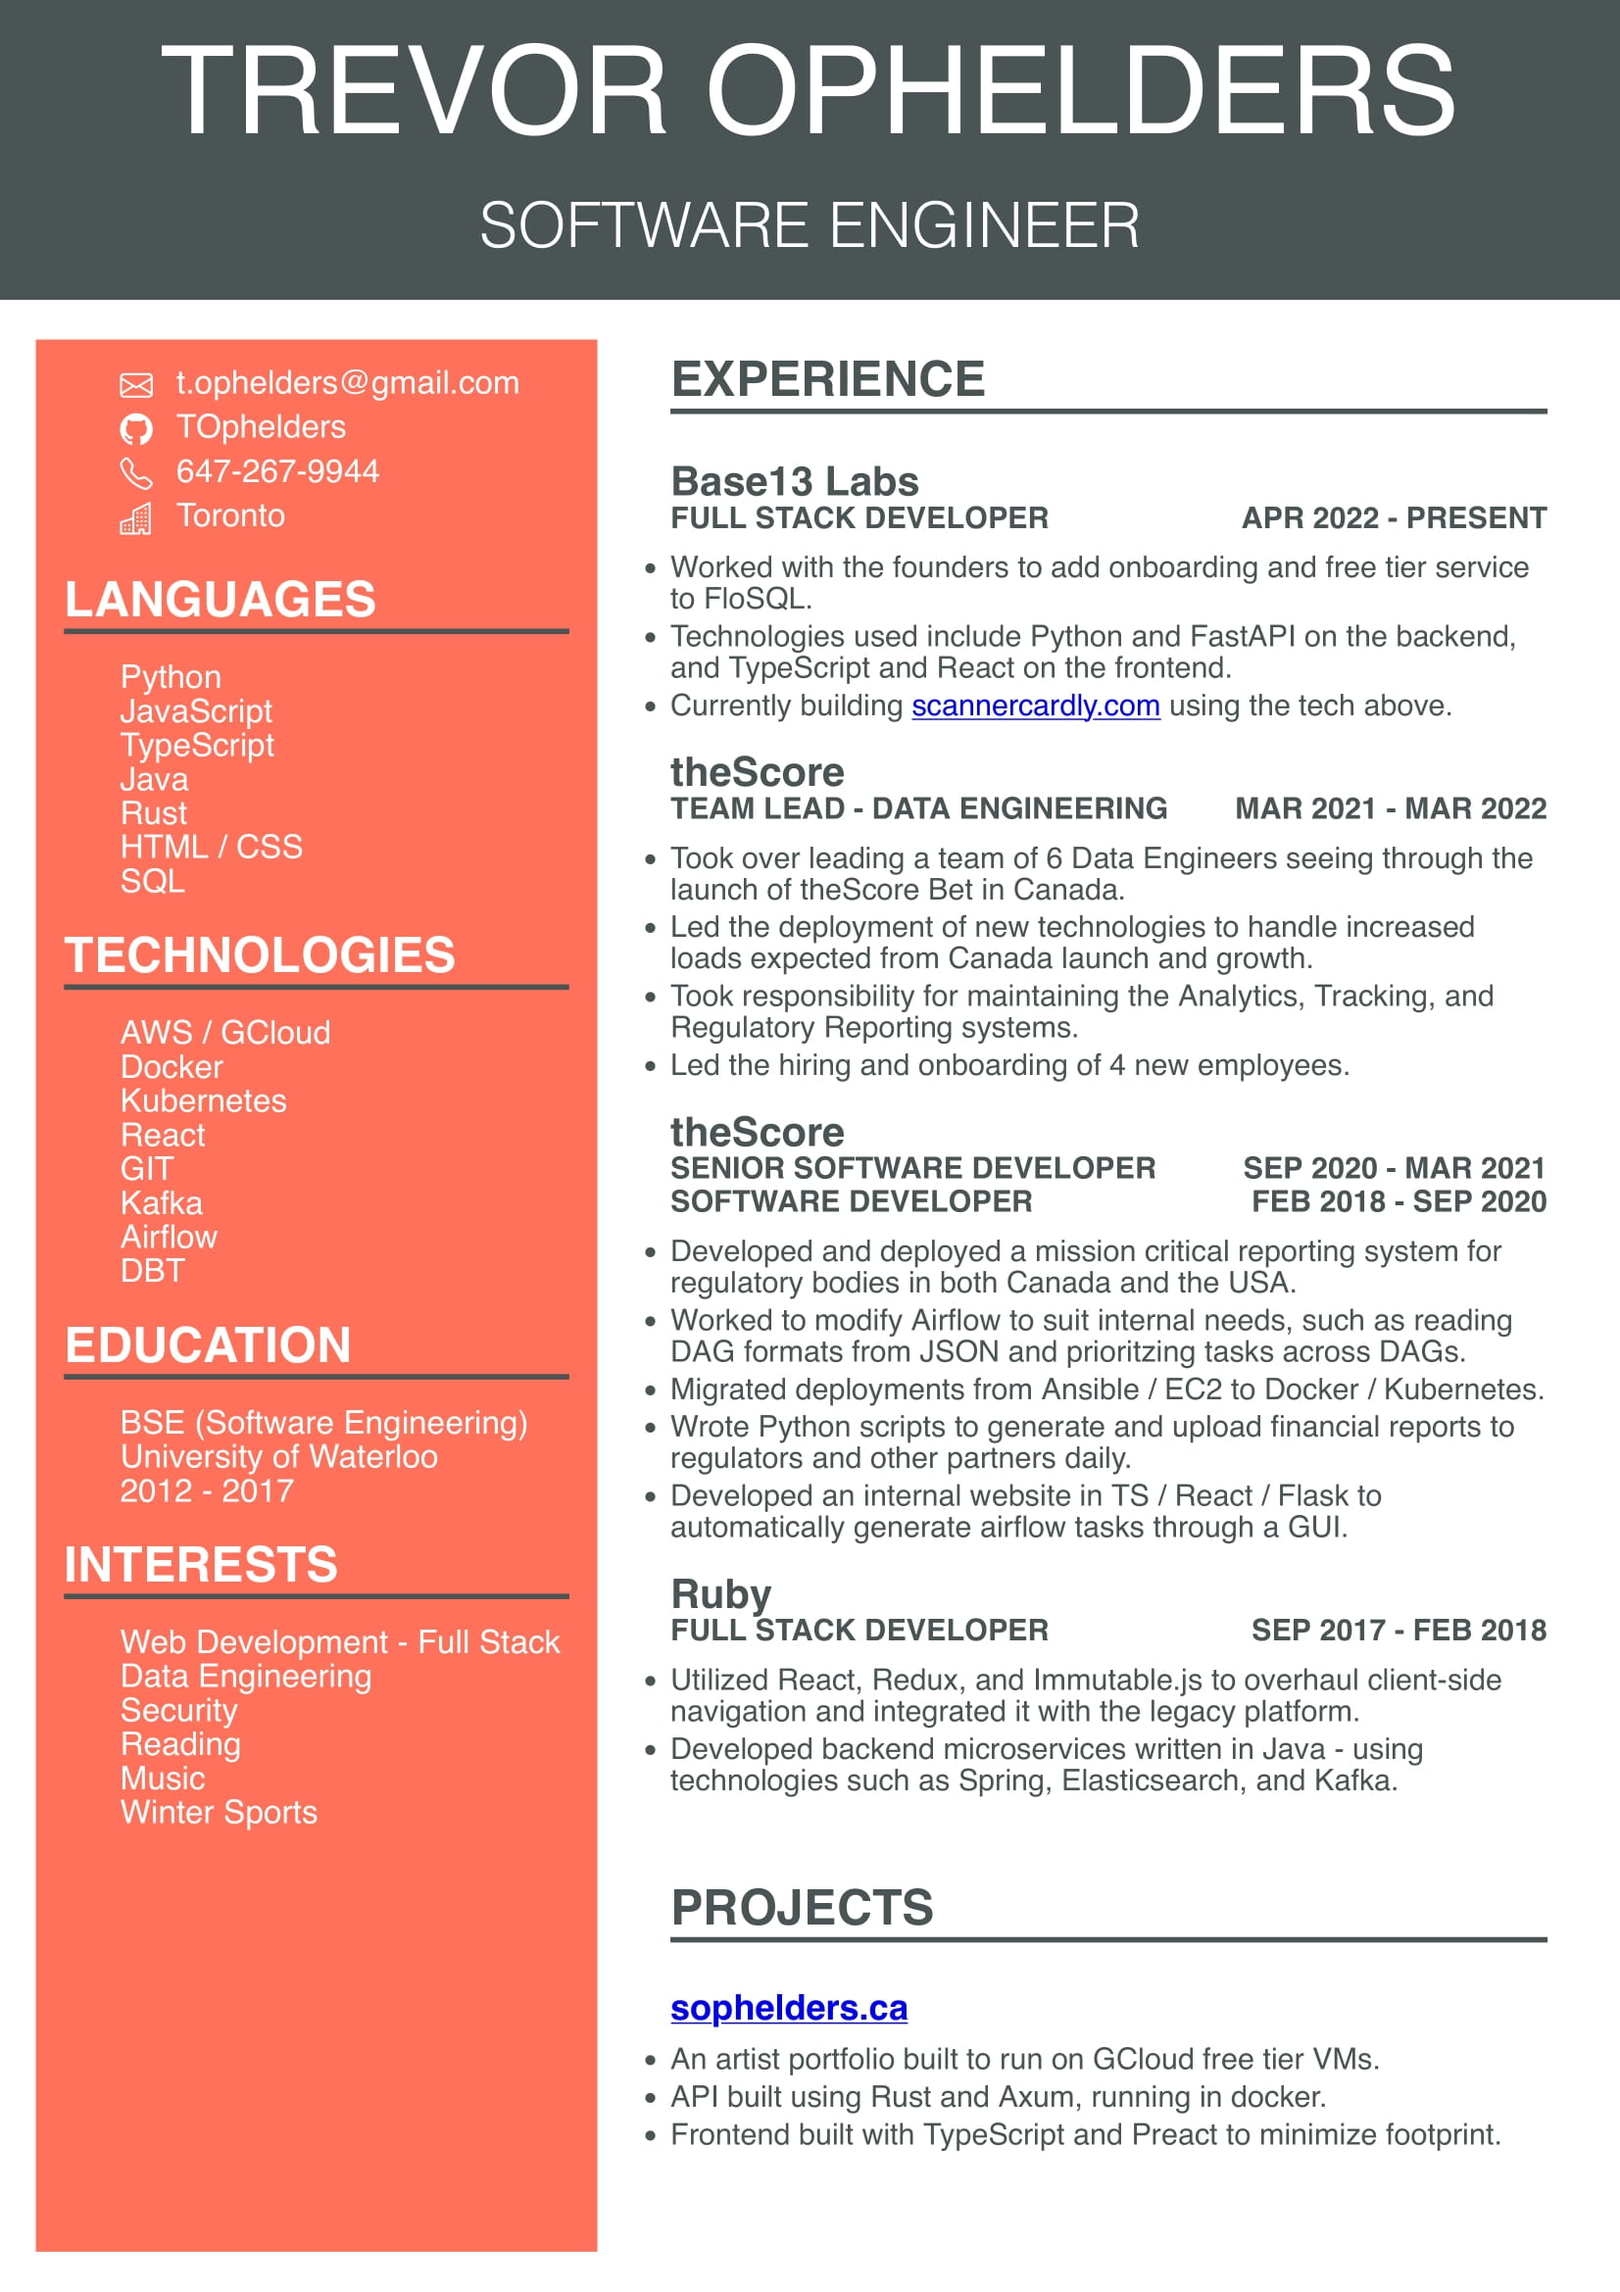
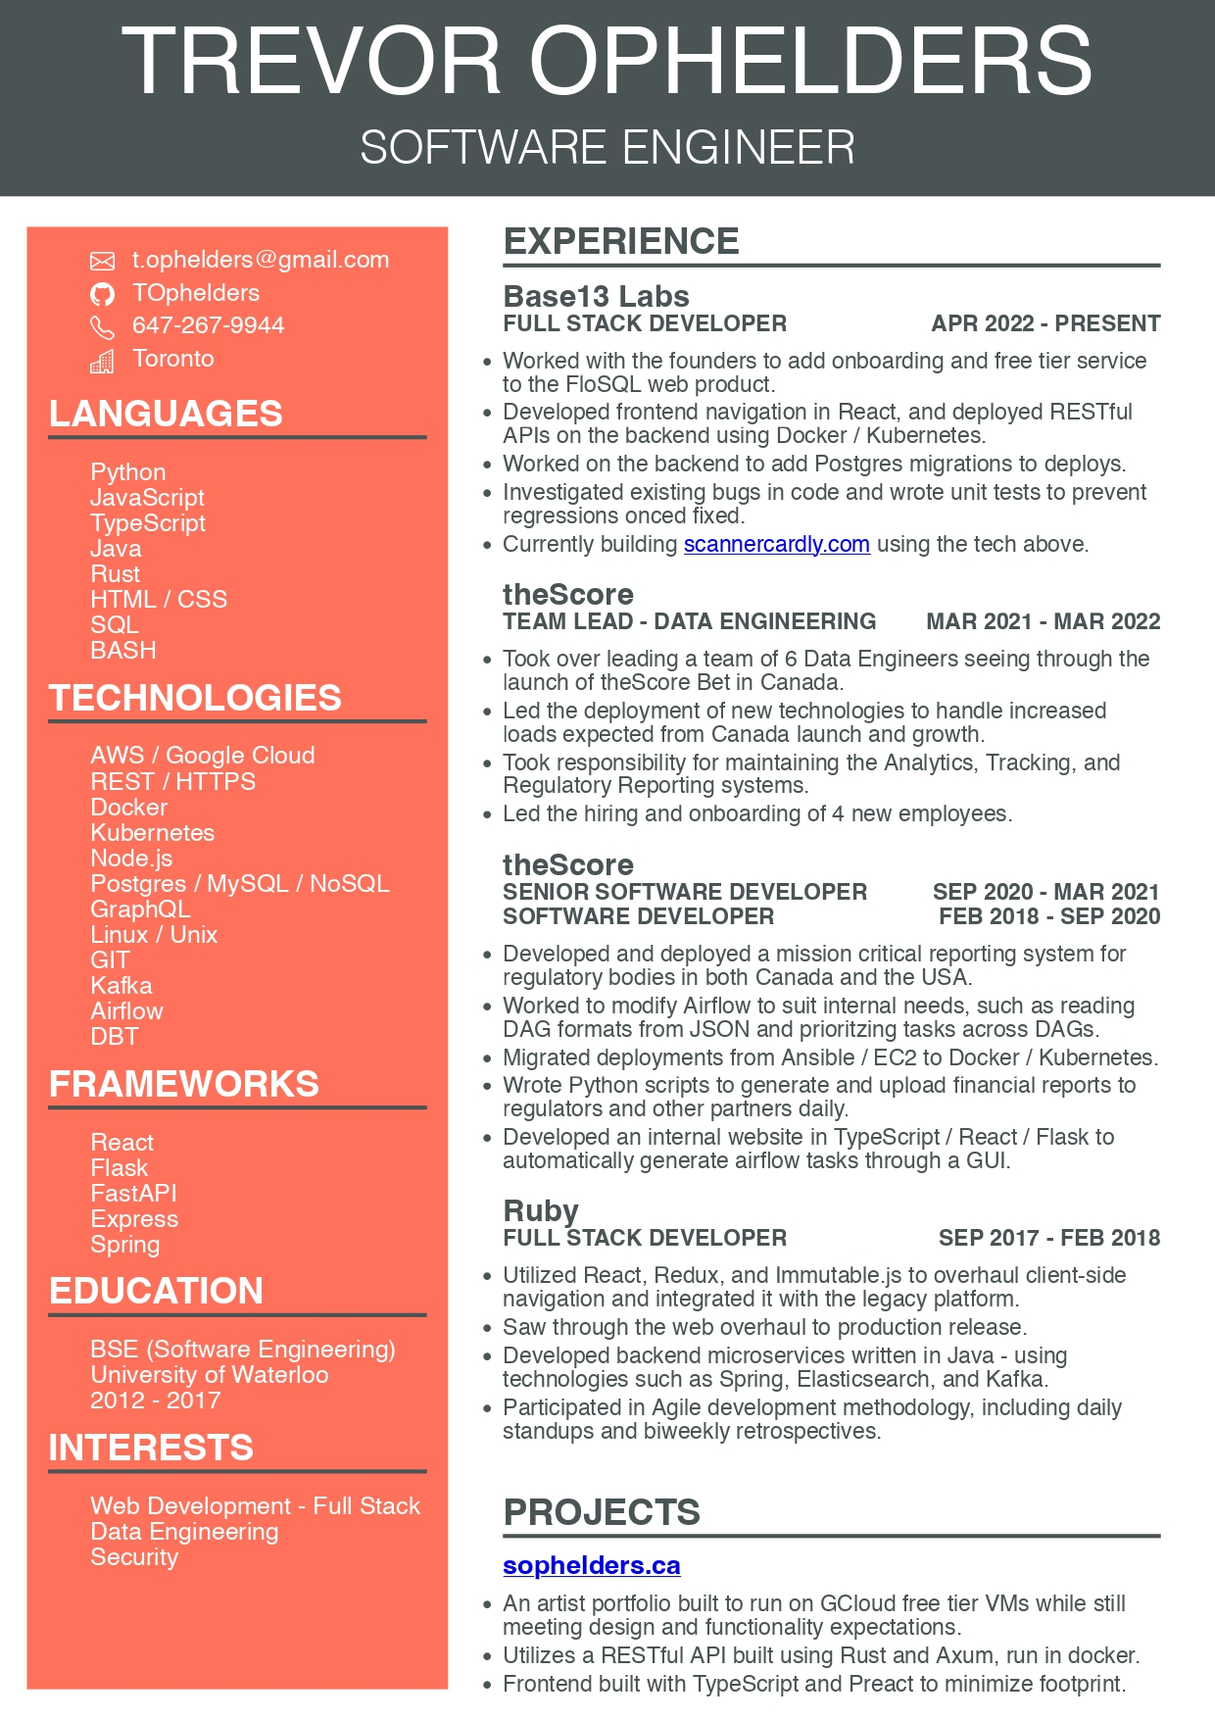
minor modifications

Changed region(s): [[0.0, 0.0, 1.0, 0.9846]]

diff --git a/resume.html b/resume.html
@@ -67,7 +67,7 @@
       }
       .section-header {
         width: 90%;
-        margin: 6% 0% 0% 5%;
+        margin: 4% 0% 0% 5%;
         border-bottom: 3px solid #4C5454;
         font-size: 18pt;
       }
@@ -106,7 +106,7 @@
       }
       .history-content {
         width: 90%;
-        margin: 5% 0% 0% 5%;
+        margin: 2% 0% 0% 5%;
         font-size: 11pt;
         font-weight: 500;
       }
@@ -170,19 +170,34 @@
                   <span>Rust</span>
                   <span>HTML / CSS</span>
                   <span>SQL</span>
+                  <span>BASH</span>
                 </div>
                 <div class="section-header flex-column">
                   <span>TECHNOLOGIES</span>
                 </div>
                 <div class="profile-content flex-column">
-                  <span>AWS / GCloud</span>
+                  <span>AWS / Google Cloud</span>
+                  <span>REST / HTTPS</span>
                   <span>Docker</span>
                   <span>Kubernetes</span>
-                  <span>React</span>
+                  <span>Node.js</span>
+                  <span>Postgres / MySQL / NoSQL</span>
+                  <span>GraphQL</span>
+                  <span>Linux / Unix</span>
                   <span>GIT</span>
                   <span>Kafka</span>
                   <span>Airflow</span>
                   <span>DBT</span>
+                </div>
+                <div class="section-header flex-column">
+                  <span>FRAMEWORKS</span>
+                </div>
+                <div class="profile-content flex-column">
+                  <span>React</span>
+                  <span>Flask</span>
+                  <span>FastAPI</span>
+                  <span>Express</span>
+                  <span>Spring</span>
                 </div>
                 <div class="section-header flex-column">
                   <span>EDUCATION</span>
@@ -199,9 +214,6 @@
                   <span>Web Development - Full Stack</span>
                   <span>Data Engineering</span>
                   <span>Security</span>
-                  <span>Reading</span>
-                  <span>Music</span>
-                  <span>Winter Sports</span>
                 </div>
               </div>
             </div>
@@ -220,8 +232,10 @@
               </div>
               <div>
                 <ul class="job-description">
-                  <li>Worked with the founders to add onboarding and free tier service to FloSQL.</li>
-                  <li>Technologies used include Python and FastAPI on the backend, and TypeScript and React on the frontend.</li>
+                  <li>Worked with the founders to add onboarding and free tier service to the FloSQL web product.</li>
+                  <li>Developed frontend navigation in React, and deployed RESTful APIs on the backend using Docker / Kubernetes.</li>
+                  <li>Worked on the backend to add Postgres migrations to deploys.</li>
+                  <li>Investigated existing bugs in code and wrote unit tests to prevent regressions onced fixed.</li>
                   <li>Currently building <a href="http://scannercardly.com">scannercardly.com</a> using the tech above.</li>
                 </ul>
               </div>
@@ -258,7 +272,7 @@
                   <li>Worked to modify Airflow to suit internal needs, such as reading DAG formats from JSON and prioritzing tasks across DAGs.</li>
                   <li>Migrated deployments from Ansible / EC2 to Docker / Kubernetes.</li>
                   <li>Wrote Python scripts to generate and upload financial reports to regulators and other partners daily.</li>
-                  <li>Developed an internal website in TS / React / Flask to automatically generate airflow tasks through a GUI.</li>
+                  <li>Developed an internal website in TypeScript / React / Flask to automatically generate airflow tasks through a GUI.</li>
                 </ul>
               </div>
               <div class="company-title">
@@ -271,7 +285,9 @@
               <div>
                 <ul class="job-description">
                   <li>Utilized React, Redux, and Immutable.js to overhaul client-side navigation and integrated it with the legacy platform.</li>
+                  <li>Saw through the web overhaul to production release.</li>
                   <li>Developed backend microservices written in Java - using technologies such as Spring, Elasticsearch, and Kafka.</li>
+                  <li>Participated in Agile development methodology, including daily standups and biweekly retrospectives.</li>
                 </ul>
               </div>
             </div>
@@ -284,8 +300,8 @@
               </div>
               <div>
                 <ul class="job-description">
-                  <li>An artist portfolio built to run on GCloud free tier VMs.</li>
-                  <li>API built using Rust and Axum, running in docker.</li>
+                  <li>An artist portfolio built to run on GCloud free tier VMs while still meeting design and functionality expectations.</li>
+                  <li>Utilizes a RESTful API built using Rust and Axum, run in docker.</li>
                   <li>Frontend built with TypeScript and Preact to minimize footprint.</li>
                 </ul>
               </div>
